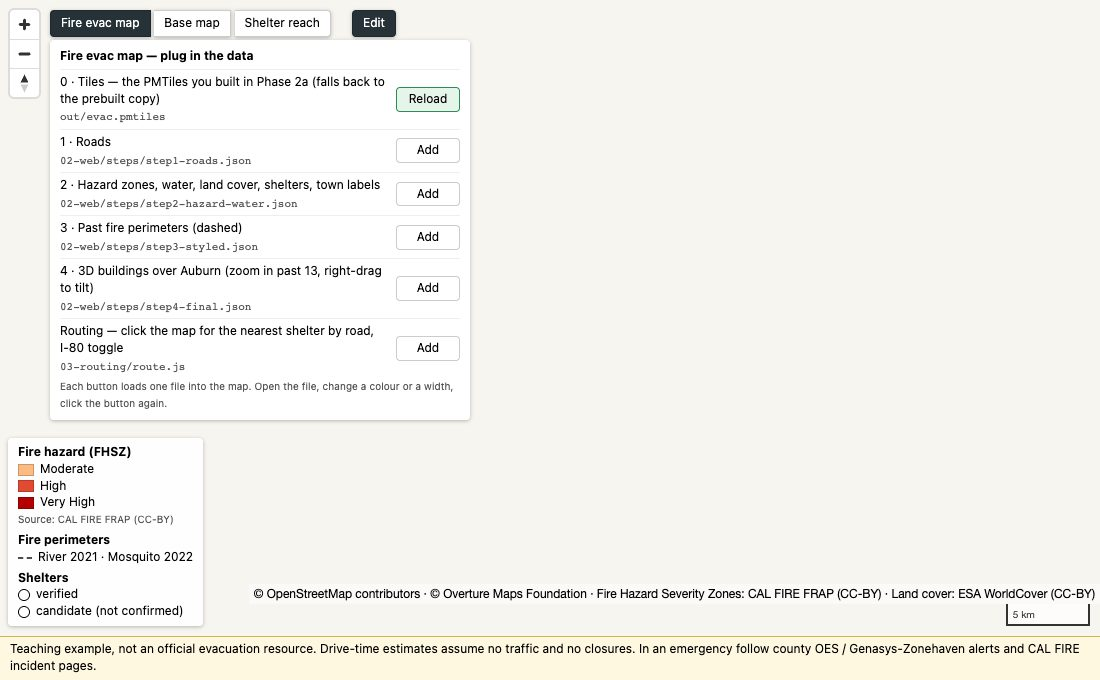
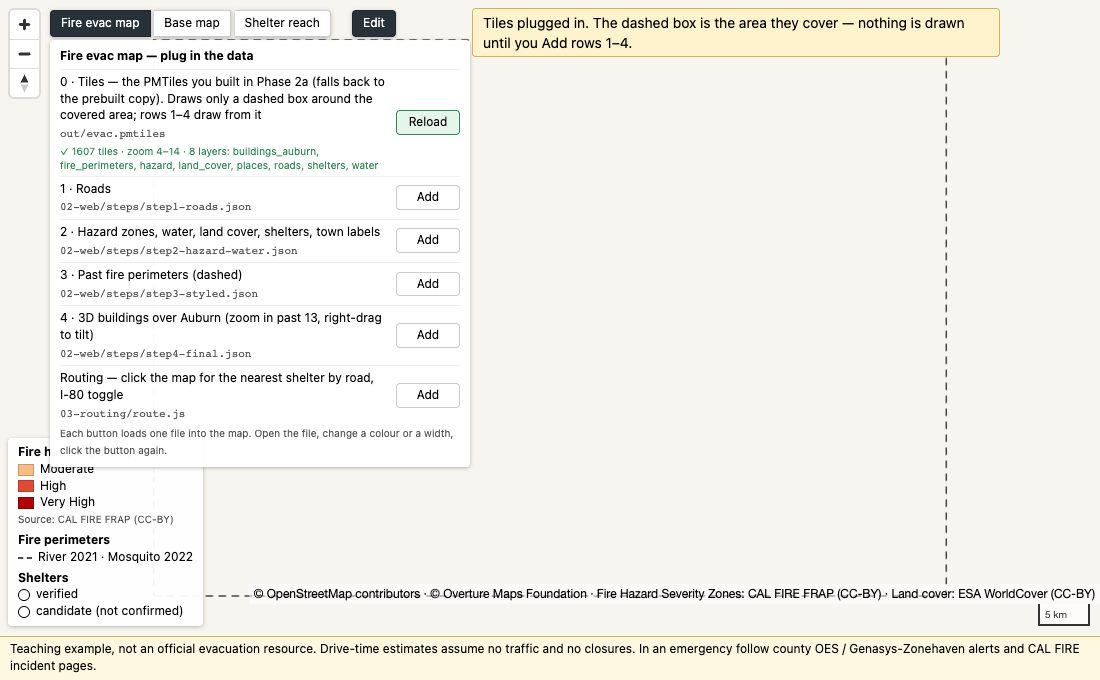
02-web: row 0 now shows something — dashed box around the tile extent, tile count + layer list under the row, one-line notice; notice moved right so the panel never covers it

diff --git a/02-web/index.html b/02-web/index.html
@@ -12,7 +12,7 @@
   #map { position: absolute; inset: 0 0 44px 0; }
   #footer { position: absolute; bottom: 0; left: 0; right: 0; height: 44px; box-sizing: border-box;
             padding: 4px 10px; background: #fff8e1; border-top: 1px solid #d4b24c; font-size: 12px; overflow: auto; }
-  #notice { position: absolute; top: 8px; left: 50%; transform: translateX(-50%); z-index: 5; max-width: 80%;
+  #notice { position: absolute; top: 8px; right: 100px; z-index: 7; max-width: 46%;
             background: #fff3cd; border: 1px solid #d4b24c; border-radius: 4px; padding: 4px 10px; display: none; }
   #legend { position: absolute; left: 8px; bottom: 54px; z-index: 5; background: #fffffff0; border-radius: 4px;
             padding: 6px 10px; font-size: 12px; box-shadow: 0 1px 4px #0004; max-width: 260px; }
@@ -33,6 +33,7 @@
   #edit-panel b { display: block; margin-bottom: 4px; }
   #edit-panel .item { display: grid; grid-template-columns: 1fr auto; gap: 2px 10px; align-items: center; padding: 4px 0; border-top: 1px solid #0001; }
   #edit-panel .item code { font-size: 11px; color: #555; grid-column: 1; }
+  #edit-panel .item small { grid-column: 1; color: #2e8b57; }
   #edit-panel .item button { grid-column: 2; grid-row: 1 / span 2; font: inherit; font-size: 12px; padding: 3px 10px; border: 1px solid #0003; border-radius: 4px; background: #fff; cursor: pointer; min-width: 64px; }
   #edit-panel .item button.done { background: #e6f5ea; border-color: #2e8b57; }
   #edit-panel small { color: #555; }
@@ -100,6 +101,7 @@ function showNotice(text) {
 // out/evac.pmtiles is preferred; if it is missing we fall back to the prebuilt copy and say so.
 const TILE_FILES = ['../out/evac.pmtiles', '../data/prebuilt/evac.pmtiles'];
 let tilesFile = null;   // which one is plugged in (shown in the Edit panel)
+let tilesInfo = '';     // "1607 tiles · z4–14 · 8 layers: …" (shown under row 0)
 
 async function loadTiles() {
   let chosen = null;
@@ -120,13 +122,25 @@ async function loadTiles() {
   if (map.getSource('evac')) map.removeSource('evac');
   map.addSource('evac', { type: 'vector', url: 'pmtiles://' + new URL(chosen, location.href).href, minzoom: 4, maxzoom: 14 });
   tilesFile = chosen.replace('../', ''); loaded.add('tiles');
+  // Something to see: read the file header, draw a dashed box around the area the tiles cover, list its layers.
+  const pm = new pmtiles.PMTiles(new URL(chosen, location.href).href);
+  const h = await pm.getHeader(); const meta = await pm.getMetadata();
+  const names = (meta.vector_layers || []).map((l) => l.id);
+  tilesInfo = h.numAddressedTiles + ' tiles · zoom ' + h.minZoom + '–' + h.maxZoom + ' · ' + names.length + ' layers: ' + names.join(', ');
+  const box = [[h.minLon, h.minLat], [h.maxLon, h.minLat], [h.maxLon, h.maxLat], [h.minLon, h.maxLat], [h.minLon, h.minLat]];
+  const extent = { type: 'Feature', properties: {}, geometry: { type: 'LineString', coordinates: box } };
+  if (map.getSource('tile-extent')) map.getSource('tile-extent').setData(extent); else map.addSource('tile-extent', { type: 'geojson', data: extent });
+  insertOrdered({ id: 'tile-extent', type: 'line', source: 'tile-extent', paint: { 'line-color': '#444', 'line-width': 1.5, 'line-dasharray': [4, 3] } });
+  map.fitBounds([[h.minLon, h.minLat], [h.maxLon, h.maxLat]], { padding: 40, duration: 800 });
   for (const s of STEPS) if (loaded.has('step' + s.n)) await loadStep(s);   // re-add what was already plugged in
-  console.info('tiles: ' + tilesFile);
+  applyView();
+  if (chosen === TILE_FILES[0]) showNotice('Tiles plugged in. The dashed box is the area they cover — nothing is drawn until you Add rows 1–4.');
+  console.info('tiles: ' + tilesFile + ' — ' + tilesInfo);
 }
 
 // Layers in drawing order (bottom -> top). Whatever you plug in is inserted at its place in this list,
 // so the order you click the buttons never matters. Plugging a file in twice replaces its layers (edit -> click again).
-const ORDER = ['basemap-osm', 'water', 'land_cover', 'hazard', 'fire_perimeters', 'coverage-bands', 'roads-minor', 'roads-major',
+const ORDER = ['basemap-osm', 'tile-extent', 'water', 'land_cover', 'hazard', 'fire_perimeters', 'coverage-bands', 'roads-minor', 'roads-major',
                'buildings_auburn', 'route-casing', 'route', 'shelters', 'places'];
 
 function insertOrdered(layer) {
@@ -215,9 +229,9 @@ map.on('error', (e) => {
 // Nothing is re-styled: each view is just setLayoutProperty(id, 'visibility', ...) on a list of layer ids.
 // ---------------------------------------------------------------------------
 const VIEW_LAYERS = {
-  evac:   { show: ['water', 'land_cover', 'hazard', 'fire_perimeters', 'roads-minor', 'roads-major', 'buildings_auburn', 'places'], hide: ['basemap-osm', 'coverage-bands'] },
-  normal: { show: ['basemap-osm'], hide: ['water', 'land_cover', 'hazard', 'fire_perimeters', 'roads-minor', 'roads-major', 'buildings_auburn', 'places', 'coverage-bands'] },
-  reach:  { show: ['water', 'roads-minor', 'roads-major', 'places', 'coverage-bands'], hide: ['basemap-osm', 'land_cover', 'hazard', 'fire_perimeters', 'buildings_auburn'] }
+  evac:   { show: ['tile-extent', 'water', 'land_cover', 'hazard', 'fire_perimeters', 'roads-minor', 'roads-major', 'buildings_auburn', 'places'], hide: ['basemap-osm', 'coverage-bands'] },
+  normal: { show: ['basemap-osm'], hide: ['tile-extent', 'water', 'land_cover', 'hazard', 'fire_perimeters', 'roads-minor', 'roads-major', 'buildings_auburn', 'places', 'coverage-bands'] },
+  reach:  { show: ['tile-extent', 'water', 'roads-minor', 'roads-major', 'places', 'coverage-bands'], hide: ['basemap-osm', 'land_cover', 'hazard', 'fire_perimeters', 'buildings_auburn'] }
 };
 const viewButtons = [...document.querySelectorAll('#view-toggle button')];
 let view = 'evac';
@@ -249,7 +263,7 @@ const editBtn = document.getElementById('edit-btn'), editPanel = document.getEle
 editBtn.onclick = () => { const open = editPanel.style.display !== 'block'; editPanel.style.display = open ? 'block' : 'none'; editBtn.setAttribute('aria-expanded', open); };
 
 function editItems() {
-  const tiles = { key: 'tiles', label: '0 · Tiles — the PMTiles you built in Phase 2a (falls back to the prebuilt copy)', file: tilesFile || 'out/evac.pmtiles', run: loadTiles };
+  const tiles = { key: 'tiles', label: '0 · Tiles — the PMTiles you built in Phase 2a (falls back to the prebuilt copy). Draws only a dashed box around the covered area; rows 1–4 draw from it', file: tilesFile || 'out/evac.pmtiles', info: tilesInfo, run: loadTiles };
   const needTiles = (it) => Object.assign(it, { disabled: !loaded.has('tiles'), hint: 'plug in the tiles first' });
   const routing = { key: 'routing', label: 'Routing — click the map for the nearest shelter by road, I-80 toggle', file: '03-routing/route.js', run: loadRouting };
   if (view === 'evac') return [tiles, ...STEPS.map((s) => needTiles({ key: 'step' + s.n, label: s.n + ' · ' + s.label, file: '02-web/' + s.file, run: () => loadStep(s) })), routing];
@@ -269,8 +283,9 @@ function renderEditPanel() {
   for (const it of items) {
     const row = document.createElement('div'); row.className = 'item';
     const done = loaded.has(it.key);
-    row.innerHTML = '<span>' + it.label + '</span><code>' + it.file + '</code>';
+    row.innerHTML = '<span>' + it.label + '</span><code>' + it.file + '</code>' + (done && it.info ? '<small>✓ ' + it.info + '</small>' : '');
     const b = document.createElement('button'); b.type = 'button'; b.textContent = done ? 'Reload' : 'Add'; b.className = done ? 'done' : '';
+    b.style.gridRow = '1 / span ' + (done && it.info ? 3 : 2);
     if (it.disabled && !done) { b.disabled = true; b.title = it.hint; row.style.opacity = 0.55; }
     b.onclick = async () => {
       b.disabled = true; b.textContent = '…';

diff --git a/02-web/solution.html b/02-web/solution.html
@@ -12,7 +12,7 @@
   #map { position: absolute; inset: 0 0 44px 0; }
   #footer { position: absolute; bottom: 0; left: 0; right: 0; height: 44px; box-sizing: border-box;
             padding: 4px 10px; background: #fff8e1; border-top: 1px solid #d4b24c; font-size: 12px; overflow: auto; }
-  #notice { position: absolute; top: 8px; left: 50%; transform: translateX(-50%); z-index: 5; max-width: 80%;
+  #notice { position: absolute; top: 8px; right: 100px; z-index: 7; max-width: 46%;
             background: #fff3cd; border: 1px solid #d4b24c; border-radius: 4px; padding: 4px 10px; display: none; }
   #legend { position: absolute; left: 8px; bottom: 54px; z-index: 5; background: #fffffff0; border-radius: 4px;
             padding: 6px 10px; font-size: 12px; box-shadow: 0 1px 4px #0004; max-width: 260px; }
@@ -33,6 +33,7 @@
   #edit-panel b { display: block; margin-bottom: 4px; }
   #edit-panel .item { display: grid; grid-template-columns: 1fr auto; gap: 2px 10px; align-items: center; padding: 4px 0; border-top: 1px solid #0001; }
   #edit-panel .item code { font-size: 11px; color: #555; grid-column: 1; }
+  #edit-panel .item small { grid-column: 1; color: #2e8b57; }
   #edit-panel .item button { grid-column: 2; grid-row: 1 / span 2; font: inherit; font-size: 12px; padding: 3px 10px; border: 1px solid #0003; border-radius: 4px; background: #fff; cursor: pointer; min-width: 64px; }
   #edit-panel .item button.done { background: #e6f5ea; border-color: #2e8b57; }
   #edit-panel small { color: #555; }
@@ -101,6 +102,7 @@ function showNotice(text) {
 // out/evac.pmtiles is preferred; if it is missing we fall back to the prebuilt copy and say so.
 const TILE_FILES = ['../out/evac.pmtiles', '../data/prebuilt/evac.pmtiles'];
 let tilesFile = null;   // which one is plugged in (shown in the Edit panel)
+let tilesInfo = '';     // "1607 tiles · z4–14 · 8 layers: …" (shown under row 0)
 
 async function loadTiles() {
   let chosen = null;
@@ -121,13 +123,25 @@ async function loadTiles() {
   if (map.getSource('evac')) map.removeSource('evac');
   map.addSource('evac', { type: 'vector', url: 'pmtiles://' + new URL(chosen, location.href).href, minzoom: 4, maxzoom: 14 });
   tilesFile = chosen.replace('../', ''); loaded.add('tiles');
+  // Something to see: read the file header, draw a dashed box around the area the tiles cover, list its layers.
+  const pm = new pmtiles.PMTiles(new URL(chosen, location.href).href);
+  const h = await pm.getHeader(); const meta = await pm.getMetadata();
+  const names = (meta.vector_layers || []).map((l) => l.id);
+  tilesInfo = h.numAddressedTiles + ' tiles · zoom ' + h.minZoom + '–' + h.maxZoom + ' · ' + names.length + ' layers: ' + names.join(', ');
+  const box = [[h.minLon, h.minLat], [h.maxLon, h.minLat], [h.maxLon, h.maxLat], [h.minLon, h.maxLat], [h.minLon, h.minLat]];
+  const extent = { type: 'Feature', properties: {}, geometry: { type: 'LineString', coordinates: box } };
+  if (map.getSource('tile-extent')) map.getSource('tile-extent').setData(extent); else map.addSource('tile-extent', { type: 'geojson', data: extent });
+  insertOrdered({ id: 'tile-extent', type: 'line', source: 'tile-extent', paint: { 'line-color': '#444', 'line-width': 1.5, 'line-dasharray': [4, 3] } });
+  map.fitBounds([[h.minLon, h.minLat], [h.maxLon, h.maxLat]], { padding: 40, duration: 800 });
   for (const s of STEPS) if (loaded.has('step' + s.n)) await loadStep(s);   // re-add what was already plugged in
-  console.info('tiles: ' + tilesFile);
+  applyView();
+  if (chosen === TILE_FILES[0]) showNotice('Tiles plugged in. The dashed box is the area they cover — nothing is drawn until you Add rows 1–4.');
+  console.info('tiles: ' + tilesFile + ' — ' + tilesInfo);
 }
 
 // Layers in drawing order (bottom -> top). Whatever you plug in is inserted at its place in this list,
 // so the order you click the buttons never matters. Plugging a file in twice replaces its layers (edit -> click again).
-const ORDER = ['basemap-osm', 'water', 'land_cover', 'hazard', 'fire_perimeters', 'coverage-bands', 'roads-minor', 'roads-major',
+const ORDER = ['basemap-osm', 'tile-extent', 'water', 'land_cover', 'hazard', 'fire_perimeters', 'coverage-bands', 'roads-minor', 'roads-major',
                'buildings_auburn', 'route-casing', 'route', 'shelters', 'places'];
 
 function insertOrdered(layer) {
@@ -216,9 +230,9 @@ map.on('error', (e) => {
 // Nothing is re-styled: each view is just setLayoutProperty(id, 'visibility', ...) on a list of layer ids.
 // ---------------------------------------------------------------------------
 const VIEW_LAYERS = {
-  evac:   { show: ['water', 'land_cover', 'hazard', 'fire_perimeters', 'roads-minor', 'roads-major', 'buildings_auburn', 'places'], hide: ['basemap-osm', 'coverage-bands'] },
-  normal: { show: ['basemap-osm'], hide: ['water', 'land_cover', 'hazard', 'fire_perimeters', 'roads-minor', 'roads-major', 'buildings_auburn', 'places', 'coverage-bands'] },
-  reach:  { show: ['water', 'roads-minor', 'roads-major', 'places', 'coverage-bands'], hide: ['basemap-osm', 'land_cover', 'hazard', 'fire_perimeters', 'buildings_auburn'] }
+  evac:   { show: ['tile-extent', 'water', 'land_cover', 'hazard', 'fire_perimeters', 'roads-minor', 'roads-major', 'buildings_auburn', 'places'], hide: ['basemap-osm', 'coverage-bands'] },
+  normal: { show: ['basemap-osm'], hide: ['tile-extent', 'water', 'land_cover', 'hazard', 'fire_perimeters', 'roads-minor', 'roads-major', 'buildings_auburn', 'places', 'coverage-bands'] },
+  reach:  { show: ['tile-extent', 'water', 'roads-minor', 'roads-major', 'places', 'coverage-bands'], hide: ['basemap-osm', 'land_cover', 'hazard', 'fire_perimeters', 'buildings_auburn'] }
 };
 const viewButtons = [...document.querySelectorAll('#view-toggle button')];
 let view = 'evac';
@@ -250,7 +264,7 @@ const editBtn = document.getElementById('edit-btn'), editPanel = document.getEle
 editBtn.onclick = () => { const open = editPanel.style.display !== 'block'; editPanel.style.display = open ? 'block' : 'none'; editBtn.setAttribute('aria-expanded', open); };
 
 function editItems() {
-  const tiles = { key: 'tiles', label: '0 · Tiles — the PMTiles you built in Phase 2a (falls back to the prebuilt copy)', file: tilesFile || 'out/evac.pmtiles', run: loadTiles };
+  const tiles = { key: 'tiles', label: '0 · Tiles — the PMTiles you built in Phase 2a (falls back to the prebuilt copy). Draws only a dashed box around the covered area; rows 1–4 draw from it', file: tilesFile || 'out/evac.pmtiles', info: tilesInfo, run: loadTiles };
   const needTiles = (it) => Object.assign(it, { disabled: !loaded.has('tiles'), hint: 'plug in the tiles first' });
   const routing = { key: 'routing', label: 'Routing — click the map for the nearest shelter by road, I-80 toggle', file: '03-routing/route.js', run: loadRouting };
   if (view === 'evac') return [tiles, ...STEPS.map((s) => needTiles({ key: 'step' + s.n, label: s.n + ' · ' + s.label, file: '02-web/' + s.file, run: () => loadStep(s) })), routing];
@@ -270,8 +284,9 @@ function renderEditPanel() {
   for (const it of items) {
     const row = document.createElement('div'); row.className = 'item';
     const done = loaded.has(it.key);
-    row.innerHTML = '<span>' + it.label + '</span><code>' + it.file + '</code>';
+    row.innerHTML = '<span>' + it.label + '</span><code>' + it.file + '</code>' + (done && it.info ? '<small>✓ ' + it.info + '</small>' : '');
     const b = document.createElement('button'); b.type = 'button'; b.textContent = done ? 'Reload' : 'Add'; b.className = done ? 'done' : '';
+    b.style.gridRow = '1 / span ' + (done && it.info ? 3 : 2);
     if (it.disabled && !done) { b.disabled = true; b.title = it.hint; row.style.opacity = 0.55; }
     b.onclick = async () => {
       b.disabled = true; b.textContent = '…';

diff --git a/02-web/README.md b/02-web/README.md
@@ -40,7 +40,7 @@ Never `python -m http.server`: PMTiles needs `Range` requests (`206`), it answer
 
 ## Steps — Fire evac map → Edit → Add
 
-0. **Tiles** (`out/evac.pmtiles`, built in Phase 2a) → nothing visible yet; the row shows which file it took and rows 1–4 unlock. A "Using the prebuilt tiles" note = `out/evac.pmtiles` was not found. Rebuilt the tiles? **Reload** this row; added layers redraw on the new file.
+0. **Tiles** (`out/evac.pmtiles`, built in Phase 2a) → a dashed box around the covered area, the row lists the file's 8 layers and tile count, rows 1–4 unlock. A "Using the prebuilt tiles" note = `out/evac.pmtiles` was not found. Rebuilt the tiles? **Reload** this row; added layers redraw on the new file.
 1. **Roads** (`steps/step1-roads.json`) → grey roads (motorways darker).
 2. **Hazard, water, land cover, shelters, labels** (`steps/step2-hazard-water.json`) → `match` on `FHSZ_Description` (Moderate `#fdbb84` · High `#e34a33` · Very High `#b30000`), blue water, green land cover, 10 shelter circles (filled = verified), town labels (fonts in `fonts/`, works offline).
 3. **Fire perimeters** (`steps/step3-styled.json`) → dashed grey River 2021 / Mosquito 2022. Contains steps 1 + 2 as well.

diff --git a/README.md b/README.md
@@ -225,9 +225,9 @@ Open <http://localhost:8080/02-web/> (Codespaces: Ports → 8080 → globe → a
 
 ### 3a · Style — stay on **Fire evac map**, click **Edit**, then **Add** on each row, top to bottom
 
-**0 · Tiles → Add.** Map still blank; rows 1–4 unlock. (A note "Using the prebuilt tiles" means your `out/evac.pmtiles` from 2a was not found — fine, carry on.)
+**0 · Tiles → Add.** The row turns green and lists what is in the file (1607 tiles · zoom 4–14 · 8 layers), a **dashed box** shows the area the tiles cover, and rows 1–4 unlock. Nothing else is drawn yet — the tiles are data; rows 1–4 are the drawing instructions. (A note "Using the prebuilt tiles" means your `out/evac.pmtiles` from 2a was not found — fine, carry on.)
 
-<img src="docs/img/p3-step0-tiles.jpg" width="80%" alt="Edit panel after Add on row 0: Tiles shows Reload, rows 1–4 are now clickable, map still blank"/>
+<img src="docs/img/p3-step0-tiles.jpg" width="80%" alt="Edit panel after Add on row 0: green tick with 1607 tiles and 8 layer names, dashed box around the study area, rows 1–4 now clickable"/>
 
 **1 · Roads → Add.** Grey road network.
 
